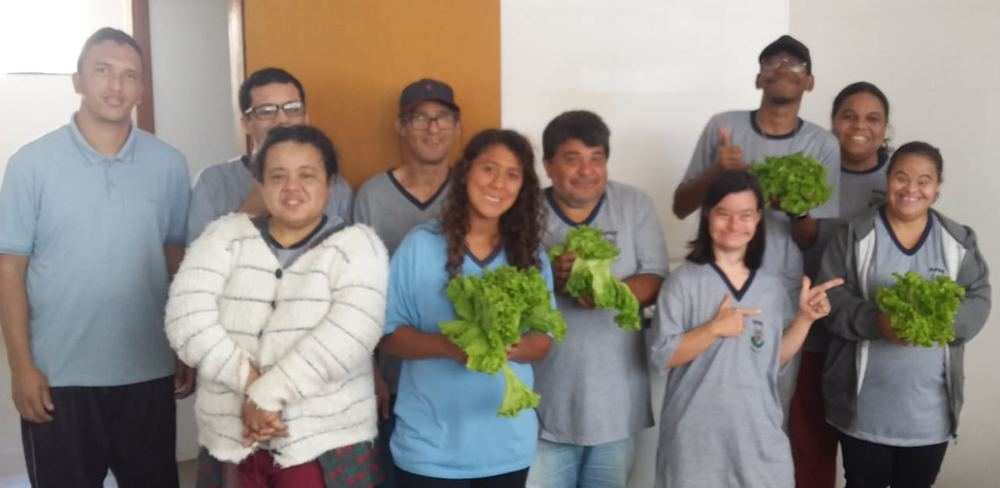
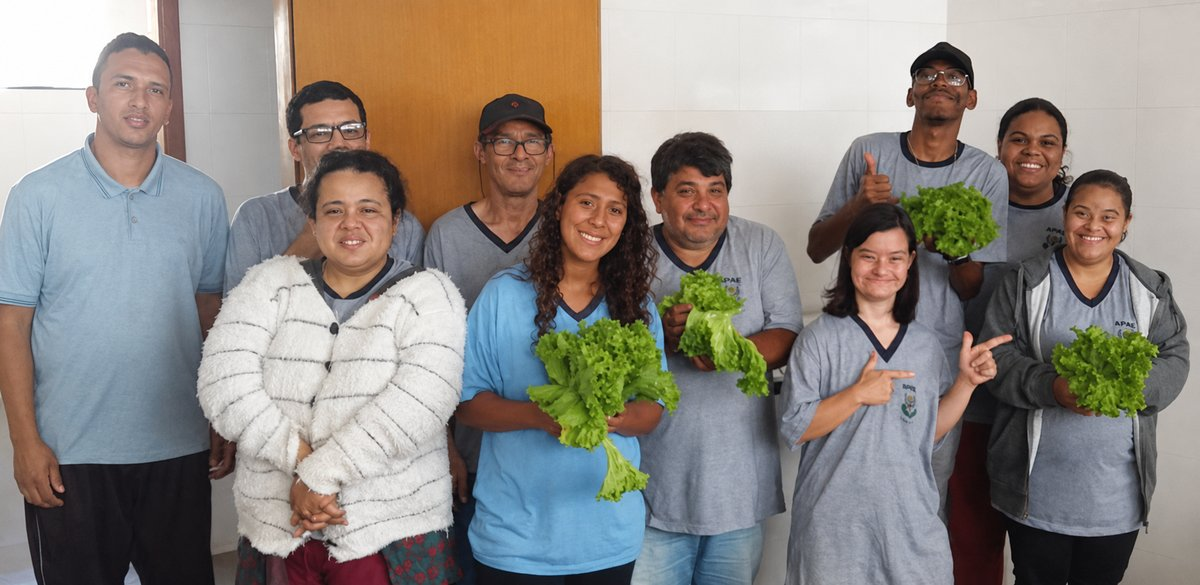
Ajustes na noticia da Horta Educativa e Comunitaria
- Troca a 2a imagem do corpo pelo post oficial do Instagram sobre o
  Forum Sao Martinho (forum-sao-martinho-post.jpg)
- Atualiza a foto da equipe com a colheita para uma versao em HD
- Aumenta um pouco o tamanho do texto do corpo do artigo (article-lead
  e article-text) e reduz a largura das fotos da galeria (max 620px),
  equilibrando melhor o peso visual entre texto e imagem

diff --git a/noticia-parceria-horta-solidaria.html b/noticia-parceria-horta-solidaria.html
@@ -44,7 +44,7 @@
   <script src="https://cdn.tailwindcss.com"></script>
 
   <!-- Styles -->
-  <link rel="stylesheet" href="css/style.css?v=20260837">
+  <link rel="stylesheet" href="css/style.css?v=20260838">
 
   <!-- Schema JSON-LD: BreadcrumbList + NewsArticle -->
   <script type="application/ld+json">
@@ -396,10 +396,10 @@
 
             <div class="article-photo-row">
               <button type="button" class="article-photo article-photo--wide" data-lightbox
-                      data-lightbox-caption="Visão geral dos canteiros da Horta Educativa e Comunitária">
-                <img src="images/noticias/parceria-horta-solidaria/horta-visao-geral-canteiros.jpg"
-                     alt="Visão geral dos canteiros da Horta Educativa e Comunitária"
-                     width="1000" height="750" loading="lazy" decoding="async">
+                      data-lightbox-caption="Post oficial da APAE Américo Brasiliense sobre a participação no Fórum São Martinho de Desenvolvimento Social">
+                <img src="images/noticias/parceria-horta-solidaria/forum-sao-martinho-post.jpg"
+                     alt="Post oficial da APAE Américo Brasiliense sobre a participação no Fórum São Martinho de Desenvolvimento Social"
+                     width="899" height="898" loading="lazy" decoding="async">
               </button>
             </div>
 
@@ -452,7 +452,7 @@
                       data-lightbox-caption="Equipe e atendidos da APAE comemorando a colheita da horta">
                 <img src="images/noticias/parceria-horta-solidaria/horta-equipe-colheita.jpg"
                      alt="Equipe e atendidos da APAE comemorando a colheita da horta"
-                     width="1000" height="488" loading="lazy" decoding="async">
+                     width="1200" height="585" loading="lazy" decoding="async">
               </button>
             </div>
 

diff --git a/fotos-videos.html b/fotos-videos.html
@@ -39,7 +39,7 @@
   <script src="https://cdn.tailwindcss.com"></script>
 
   <!-- Styles -->
-  <link rel="stylesheet" href="css/style.css?v=20260837">
+  <link rel="stylesheet" href="css/style.css?v=20260838">
 
   <!-- Schema JSON-LD: BreadcrumbList -->
   <script type="application/ld+json">
@@ -551,7 +551,7 @@
                aria-label="Ampliar foto: equipe comemorando a colheita">
             <img src="images/noticias/parceria-horta-solidaria/horta-equipe-colheita.jpg"
                  alt="Equipe e atendidos da APAE comemorando a colheita da horta"
-                 width="1000" height="488" loading="lazy" decoding="async">
+                 width="1200" height="585" loading="lazy" decoding="async">
             <div class="gv-photo-overlay" aria-hidden="true">
               <svg width="28" height="28" viewBox="0 0 24 24" fill="none" stroke="white" stroke-width="2" stroke-linecap="round" stroke-linejoin="round" aria-hidden="true"><circle cx="11" cy="11" r="8"/><line x1="21" y1="21" x2="16.65" y2="16.65"/><line x1="11" y1="8" x2="11" y2="14"/><line x1="8" y1="11" x2="14" y2="11"/></svg>
             </div>

diff --git a/css/style.css b/css/style.css
@@ -7018,7 +7018,7 @@ body {
 
 .article-lead {
   font-family: var(--font-body);
-  font-size: 1.125rem;
+  font-size: 1.1875rem;
   line-height: 1.75;
   color: var(--gray-900);
   font-weight: 500;
@@ -7035,7 +7035,7 @@ body {
 
 .article-text {
   font-family: var(--font-body);
-  font-size: 1rem;
+  font-size: 1.0625rem;
   line-height: 1.75;
   color: var(--gray-600);
   margin-bottom: 16px;
@@ -7156,8 +7156,9 @@ body {
   display: flex;
   flex-wrap: wrap;
   gap: 16px;
-  margin: 24px 0;
+  margin: 24px auto;
   clear: left;
+  max-width: 620px;
 }
 .article-photo {
   display: block;

diff --git a/transparencia.html b/transparencia.html
@@ -31,7 +31,7 @@
   <link href="https://fonts.googleapis.com/css2?family=Playfair+Display:wght@700;800&family=Inter:wght@400;500;600&display=swap" rel="stylesheet">
 
   <script src="https://cdn.tailwindcss.com"></script>
-  <link rel="stylesheet" href="css/style.css?v=20260837">
+  <link rel="stylesheet" href="css/style.css?v=20260838">
 
   <!-- Schema JSON-LD: BreadcrumbList + NGO -->
   <script type="application/ld+json">

diff --git a/doe-agora.html b/doe-agora.html
@@ -31,7 +31,7 @@
   <link href="https://fonts.googleapis.com/css2?family=Playfair+Display:wght@700;800&family=Inter:wght@400;500;600&display=swap" rel="stylesheet">
 
   <script src="https://cdn.tailwindcss.com"></script>
-  <link rel="stylesheet" href="css/style.css?v=20260837">
+  <link rel="stylesheet" href="css/style.css?v=20260838">
 
   <script type="application/ld+json">
   {

diff --git a/contato.html b/contato.html
@@ -39,7 +39,7 @@
   <script src="https://cdn.tailwindcss.com"></script>
 
   <!-- Styles -->
-  <link rel="stylesheet" href="css/style.css?v=20260837">
+  <link rel="stylesheet" href="css/style.css?v=20260838">
 
   <!-- Schema JSON-LD: BreadcrumbList + ContactPage + NGO -->
   <script type="application/ld+json">

diff --git a/servicos.html b/servicos.html
@@ -39,7 +39,7 @@
   <script src="https://cdn.tailwindcss.com"></script>
 
   <!-- Style -->
-  <link rel="stylesheet" href="css/style.css?v=20260837">
+  <link rel="stylesheet" href="css/style.css?v=20260838">
 
   <!-- Schema JSON-LD: BreadcrumbList + NGO + Serviços -->
   <script type="application/ld+json">

diff --git a/precisa-de-ajuda.html b/precisa-de-ajuda.html
@@ -39,7 +39,7 @@
   <script src="https://cdn.tailwindcss.com"></script>
 
   <!-- Style -->
-  <link rel="stylesheet" href="css/style.css?v=20260837">
+  <link rel="stylesheet" href="css/style.css?v=20260838">
 
   <!-- Schema JSON-LD: BreadcrumbList + NGO + FAQPage -->
   <script type="application/ld+json">

diff --git a/noticia-parceria-eletrosolidario.html b/noticia-parceria-eletrosolidario.html
@@ -44,7 +44,7 @@
   <script src="https://cdn.tailwindcss.com"></script>
 
   <!-- Styles -->
-  <link rel="stylesheet" href="css/style.css?v=20260837">
+  <link rel="stylesheet" href="css/style.css?v=20260838">
 
   <!-- Schema JSON-LD: BreadcrumbList + NewsArticle -->
   <script type="application/ld+json">

diff --git a/juntese-a-nos.html b/juntese-a-nos.html
@@ -39,7 +39,7 @@
   <script src="https://cdn.tailwindcss.com"></script>
 
   <!-- Styles -->
-  <link rel="stylesheet" href="css/style.css?v=20260837">
+  <link rel="stylesheet" href="css/style.css?v=20260838">
 
   <!-- Schema JSON-LD: BreadcrumbList + NGO -->
   <script type="application/ld+json">

diff --git a/lgpd.html b/lgpd.html
@@ -39,7 +39,7 @@
   <script src="https://cdn.tailwindcss.com"></script>
 
   <!-- Styles -->
-  <link rel="stylesheet" href="css/style.css?v=20260837">
+  <link rel="stylesheet" href="css/style.css?v=20260838">
 
   <!-- Schema JSON-LD: BreadcrumbList -->
   <script type="application/ld+json">

diff --git a/noticias.html b/noticias.html
@@ -39,7 +39,7 @@
   <script src="https://cdn.tailwindcss.com"></script>
 
   <!-- Styles -->
-  <link rel="stylesheet" href="css/style.css?v=20260837">
+  <link rel="stylesheet" href="css/style.css?v=20260838">
 
   <!-- Schema JSON-LD: BreadcrumbList -->
   <script type="application/ld+json">
